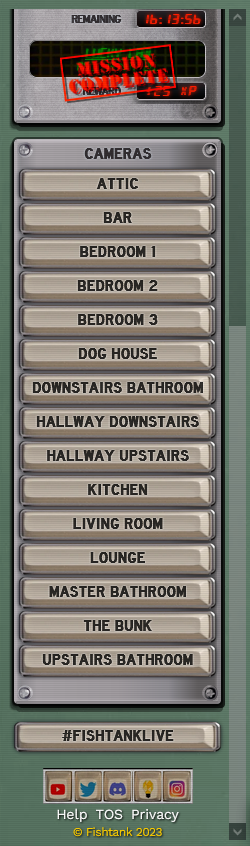
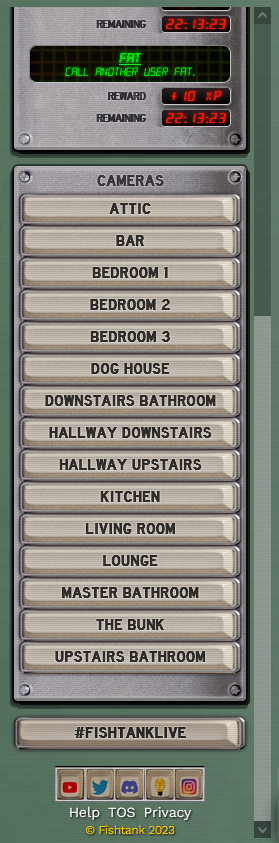
adds collapsibility to panels on left side and fixes cam list background img

diff --git a/fishtank-s02-qol.js b/fishtank-s02-qol.js
@@ -2,7 +2,7 @@
 // @name         fishtank-s02 QoL
 // @description  Adds some quality of life features for Fishtank season 2 site
 // @namespace    http://tampermonkey.net/
-// @version      2023-12-22
+// @version      2023-12-23
 // @author       barrettotte
 // @match        *://*.fishtank.live/*
 // @run-at       document-idle
@@ -29,11 +29,7 @@ function waitForElm(selector) {
         resolve(document.querySelector(selector));
       }
     });
-
-    observer.observe(document.body, {
-        childList: true,
-        subtree: true
-    });
+    observer.observe(document.body, {childList: true, subtree: true});
   });
 }
 
@@ -66,10 +62,9 @@ function fishtankSound(sound) {
 }
 
 function switchCamera(camera) {
-  // close out of camera if currently watching
   const closeBtn = document.querySelector('.close-button_md__9Ad2o');
   if (closeBtn != null) {
-    closeBtn.click();
+    closeBtn.click(); // close out of camera if currently watching
   }
 
   setTimeout(() => {
@@ -99,9 +94,7 @@ function newButton(btnTxt) {
 
 function appendToLeftPanel(el) {
   const leftPanel = document.querySelector(leftPanelClass);
-
   if (leftPanel != null) {
-    // add element before footer
     leftPanel.insertBefore(el, leftPanel.querySelector('.footer_footer__Mnt6p'));
   } else {
     console.error(`Left panel not loaded yet, cannot append element ${el}`);
@@ -111,21 +104,48 @@ function appendToLeftPanel(el) {
 function addCameraButtonPanel() {
   const camListPanel = document.createElement('div');
   camListPanel.id = 'camera-list';
-  camListPanel.className = 'desktop-nav-panel_desktop-nav-panel__4TPzk'; // taken from first panel on left side
-  camListPanel.style.display = 'flex';
-  camListPanel.style.padding = '4px 2px 24px';
-  camListPanel.style.position = 'relative';
-  camListPanel.style.background = 'linear-gradient(90deg,#88868b,#a7a2a6 10%,#a09b9f 50%,#8f8d93 75%,#625f60 90%)';
-  camListPanel.style.borderRadius = '4px';
-  camListPanel.style.border = '3px outset hsla(300,5%,79%,.75)';
-  camListPanel.style.outline = '2px solid rgba(0,0,0,.5)';
-  camListPanel.style.boxShadow = '-2px 2px 1px rgba(0,0,0,.75),inset 0 0 4px #cbc6cb,4px 4px 0 rgba(0,0,0,.75)';
-  camListPanel.style.filter = 'drop-shadow(-2px 4px 0 rgba(0,0,0,.5))';
+  camListPanel.className = 'desktop-nav-panel_desktop-nav-panel__4TPzk';
+
+  const style = document.createElement('style');
+  style.innerText = `
+    #camera-list {
+      display: block;
+      position: relative;
+      padding: 4px 2px 24px;
+      border-radius: 4px;
+      border: 3px outset hsla(300,5%,79%,.75);
+      outline: 2px solid rgba(0,0,0,.5);
+      box-shadow: -2px 2px 1px rgba(0,0,0,.75), inset 0 0 4px #cbc6cb, 4px 4px 0 rgba(0,0,0,.75);
+      filter: drop-shadow(-2px 4px 0 rgba(0,0,0,.5));
+      background: linear-gradient(
+        90deg, 
+        rgba(100, 98, 103, 1),
+        rgba(130, 125, 130, 1) 10%,
+        rgba(120, 115, 119, 1) 50%,
+        rgba(105, 103, 109, 1) 75%,
+        rgba(70, 67, 68, 1) 90%
+      );
+    }
+
+    #camera-list::before, #camera-list::after {
+      background-image: url(https://cdn.fishtank.live/images/patterns/light-aluminum-comp.png);
+      position: absolute;
+      content: "";
+      width: 100%;
+      height: 100%;
+      top: 0;
+      left: 0;
+      mix-blend-mode: overlay;
+      pointer-events: none;
+    }
+  `;
+  document.head.appendChild(style);
 
   // header
   const camListHeader = document.createElement('div');
   camListHeader.innerHTML = 'CAMERAS';
-  camListHeader.style.color = '#322e31';
+  camListHeader.className = 'camera-list_header';
+  camListHeader.style.color = '#2c282b';
   camListHeader.style.fontFamily = 'Highway Gothic,sans-serif';
   camListHeader.style.fontWeight = '600';
   camListHeader.style.textTransform = 'uppercase';
@@ -142,22 +162,24 @@ function addCameraButtonPanel() {
   ['top-left', 'top-right', 'bottom-left', 'bottom-right'].forEach((d) => screws.appendChild(newScrew(d)));
   camListPanel.appendChild(screws);
 
+  // camera container
+  const camContainer = document.createElement('div');
+  camContainer.className = 'camera-list_body';
+  camListPanel.appendChild(camContainer);
+
   // camera buttons
   cameras.forEach((c) => {
     const btn = newButton(c);
-    btn.addEventListener('click', () => {
-      switchCamera(c);
-    });
-    camListPanel.appendChild(btn);
+    btn.addEventListener('click', () => switchCamera(c));
+    camContainer.appendChild(btn);
   });
   appendToLeftPanel(camListPanel);
 }
 
 function addFishtankLiveHashtag() {
   const btn = newButton('#fishtanklive');
-  btn.style.marginTop = '2px';
-  btn.style.paddingTop = '15px';
-  btn.style.paddingBottom = '15px';
+  btn.style.minHeight = '33px';
+  btn.style.maxHeight = '33px';
 
   btn.addEventListener('click', () => {
     fishtankSound('click-high-short.mp3');
@@ -166,11 +188,64 @@ function addFishtankLiveHashtag() {
   appendToLeftPanel(btn);
 }
 
-function main() {
-  addCameraButtonPanel();
-  addFishtankLiveHashtag();
+function enableCollapsibility(headerSelector, bodySelectors) {
+  const header = document.querySelector(headerSelector);
+  
+  if (header != null) {
+    header.style.cursor = 'pointer';
+
+    header.addEventListener('click', () => {
+      fishtankSound('click-high-short.mp3');
+      
+      bodySelectors.forEach((b) => {
+        const body = document.querySelector(b);
+        if (body != null) {
+          body.style.display = (body.style.display === 'none') ? 'inherit' : 'none';
+        }
+      });
+    });
+    header.addEventListener('mouseover', () => {
+      header.style.filter = 'brightness(0.8)';
+    });
+    header.addEventListener('mouseout', () => {
+      header.style.filter = 'none';
+    });
+  }
 }
 
-waitForElm(leftPanelClass)
-  .then(() => main())
-  .catch((e) => console.error(`fishtank-s02-qol failed ${e}`));
+function addCollapsibleLeftPanels() {
+  const panels = [
+    {'name': 'inventory', 'header': '.inventory_header__GOmU_', 'body': ['.inventory_body__9_tdq']},
+    {'name': 'cameras', 'header': '.camera-list_header', 'body': ['.camera-list_body']},
+    // tabs
+    {'name': 'missions', 'header': '.missions_header__K2acn', 'body': ['.missions_body__aG1yj']},
+    {'name': 'fish', 'header': '.contestant-leader-board_header__lIEDI', 'body': ['.contestant-leader-board_body__gBqff']},
+    {'name': 'poll', 'header': '.last-poll_header__21XjM', 'body': ['.poll-question_poll-question__7r_dL', '.last-poll_body__HqdtJ']},
+    {'name': 'map', 'header': '.house-map-panel_header__bBdbV', 'body': ['.house-map-panel_body__XeFna']},
+  ];
+  const panelWaitMs = 300;
+
+  // re-apply collapsiblity on tab switch
+  document.querySelectorAll('.secondary-panel_tab__PxWtZ').forEach((tab) => {
+    const tabBtn = tab.children[0];
+    tabBtn.addEventListener('click', () => {
+      setTimeout(() => {
+        const tab = panels.find((p) => p.name === tabBtn.textContent);
+        enableCollapsibility(tab.header, tab.body);
+      }, panelWaitMs);
+    });
+  });
+
+  setTimeout(() => {
+    panels.forEach((panel) => enableCollapsibility(panel.header, panel.body));
+  }, panelWaitMs);
+}
+
+(() => {
+  // left panel tweaks
+  waitForElm(leftPanelClass).then(() => {
+    addCameraButtonPanel();
+    addFishtankLiveHashtag();
+    addCollapsibleLeftPanels();
+  });
+})();

diff --git a/README.md b/README.md
@@ -6,8 +6,9 @@ More awesome features can be found at https://github.com/maejok-xx/maejok-tools
 
 ## Features
 
-- List of all cameras on left panel
-- Button in left panel to open `#fishtanklive` on X in new tab
+- List of all cameras on left side
+- Button on left side to open `#fishtanklive` on X in new tab
+- Collapsible panels on left side by clicking header
 
 ## Screenshots
 
